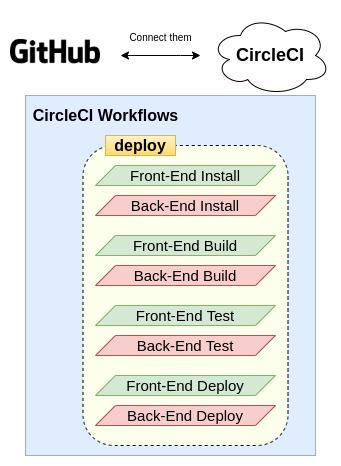
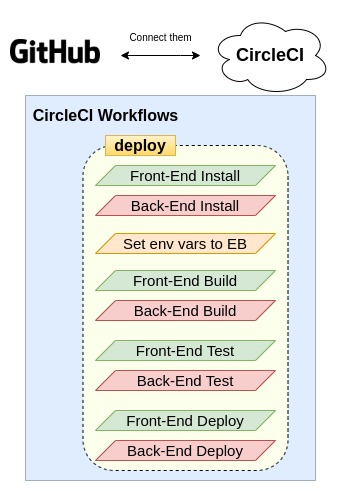
on pipeline, add set vars at EB from circleci

diff --git a/README.md b/README.md
@@ -94,6 +94,7 @@ We have called this job 'deploy'.
 This job is divided into multiple steps:
 - Front-End Install
 - Back-End Install
+- Set Env Vars to EB
 - Front-End Build
 - Back-End Build
 - Front-End Test

diff --git a/documentation/PipelineProcess.md b/documentation/PipelineProcess.md
@@ -17,6 +17,7 @@ We have called this job 'deploy'.
 This job is divided into multiple steps:
 - Front-End Install
 - Back-End Install
+- Set Env Vars to EB
 - Front-End Build
 - Back-End Build
 - Front-End Test
